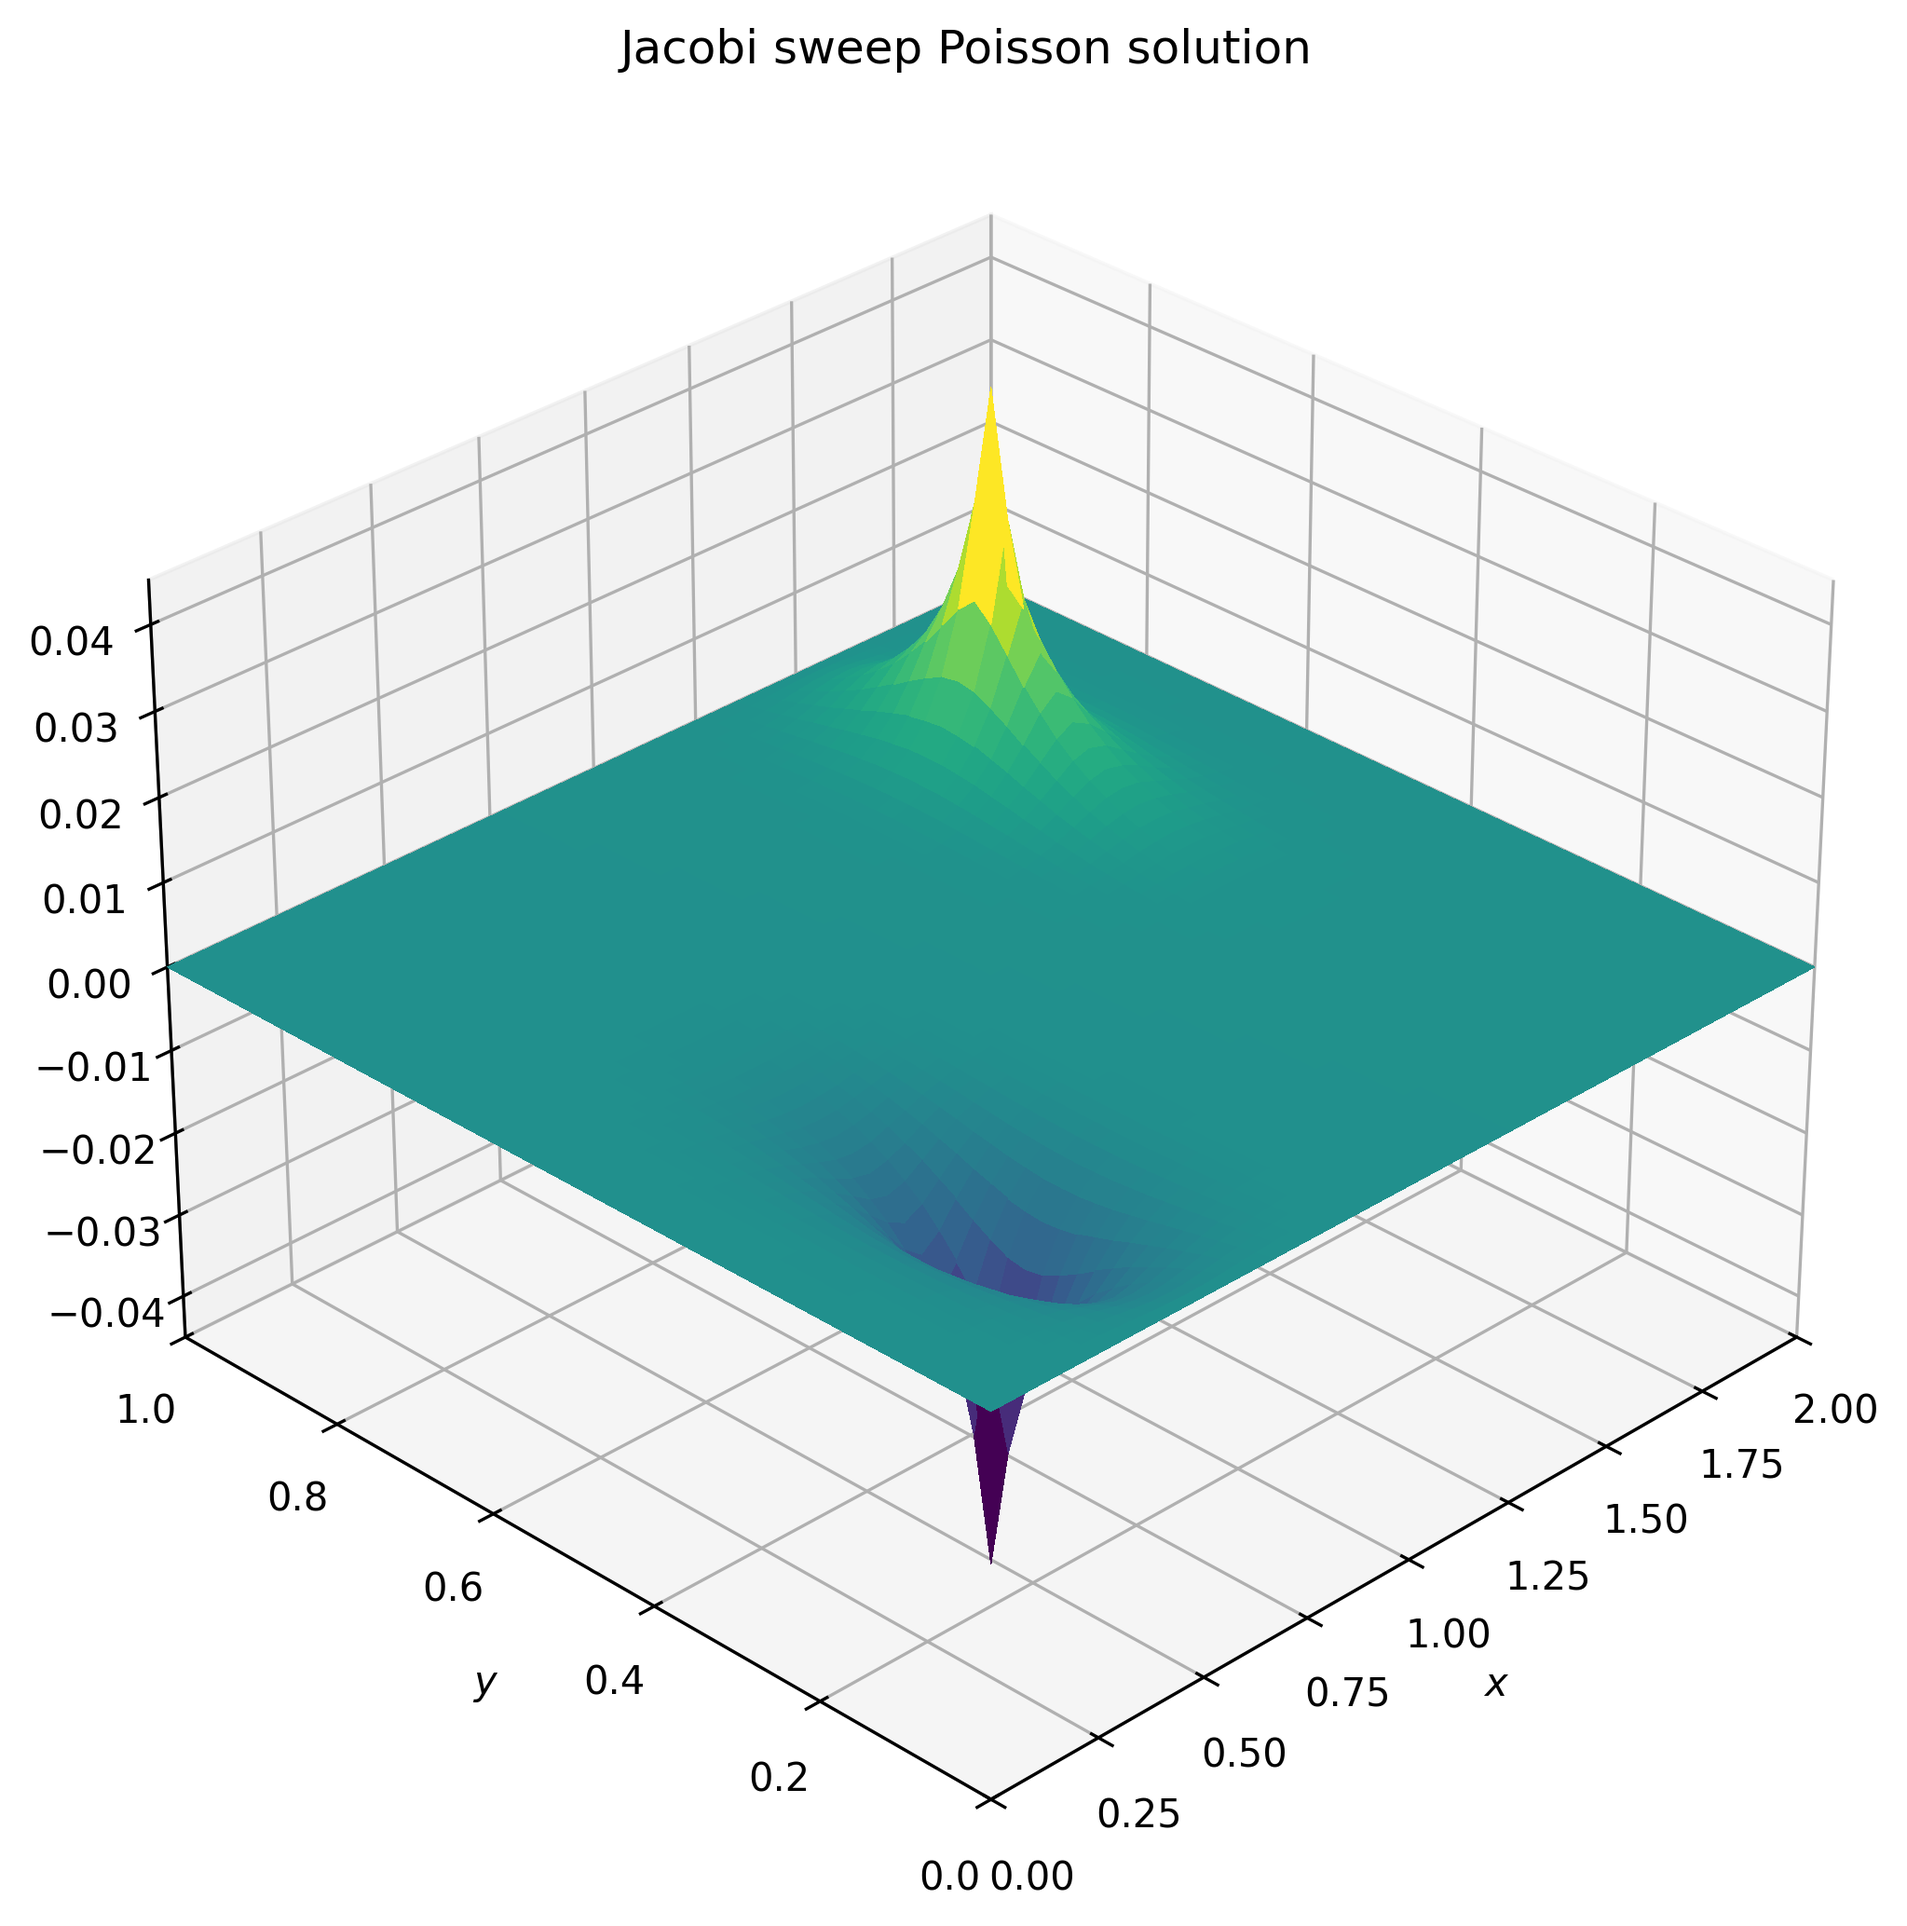
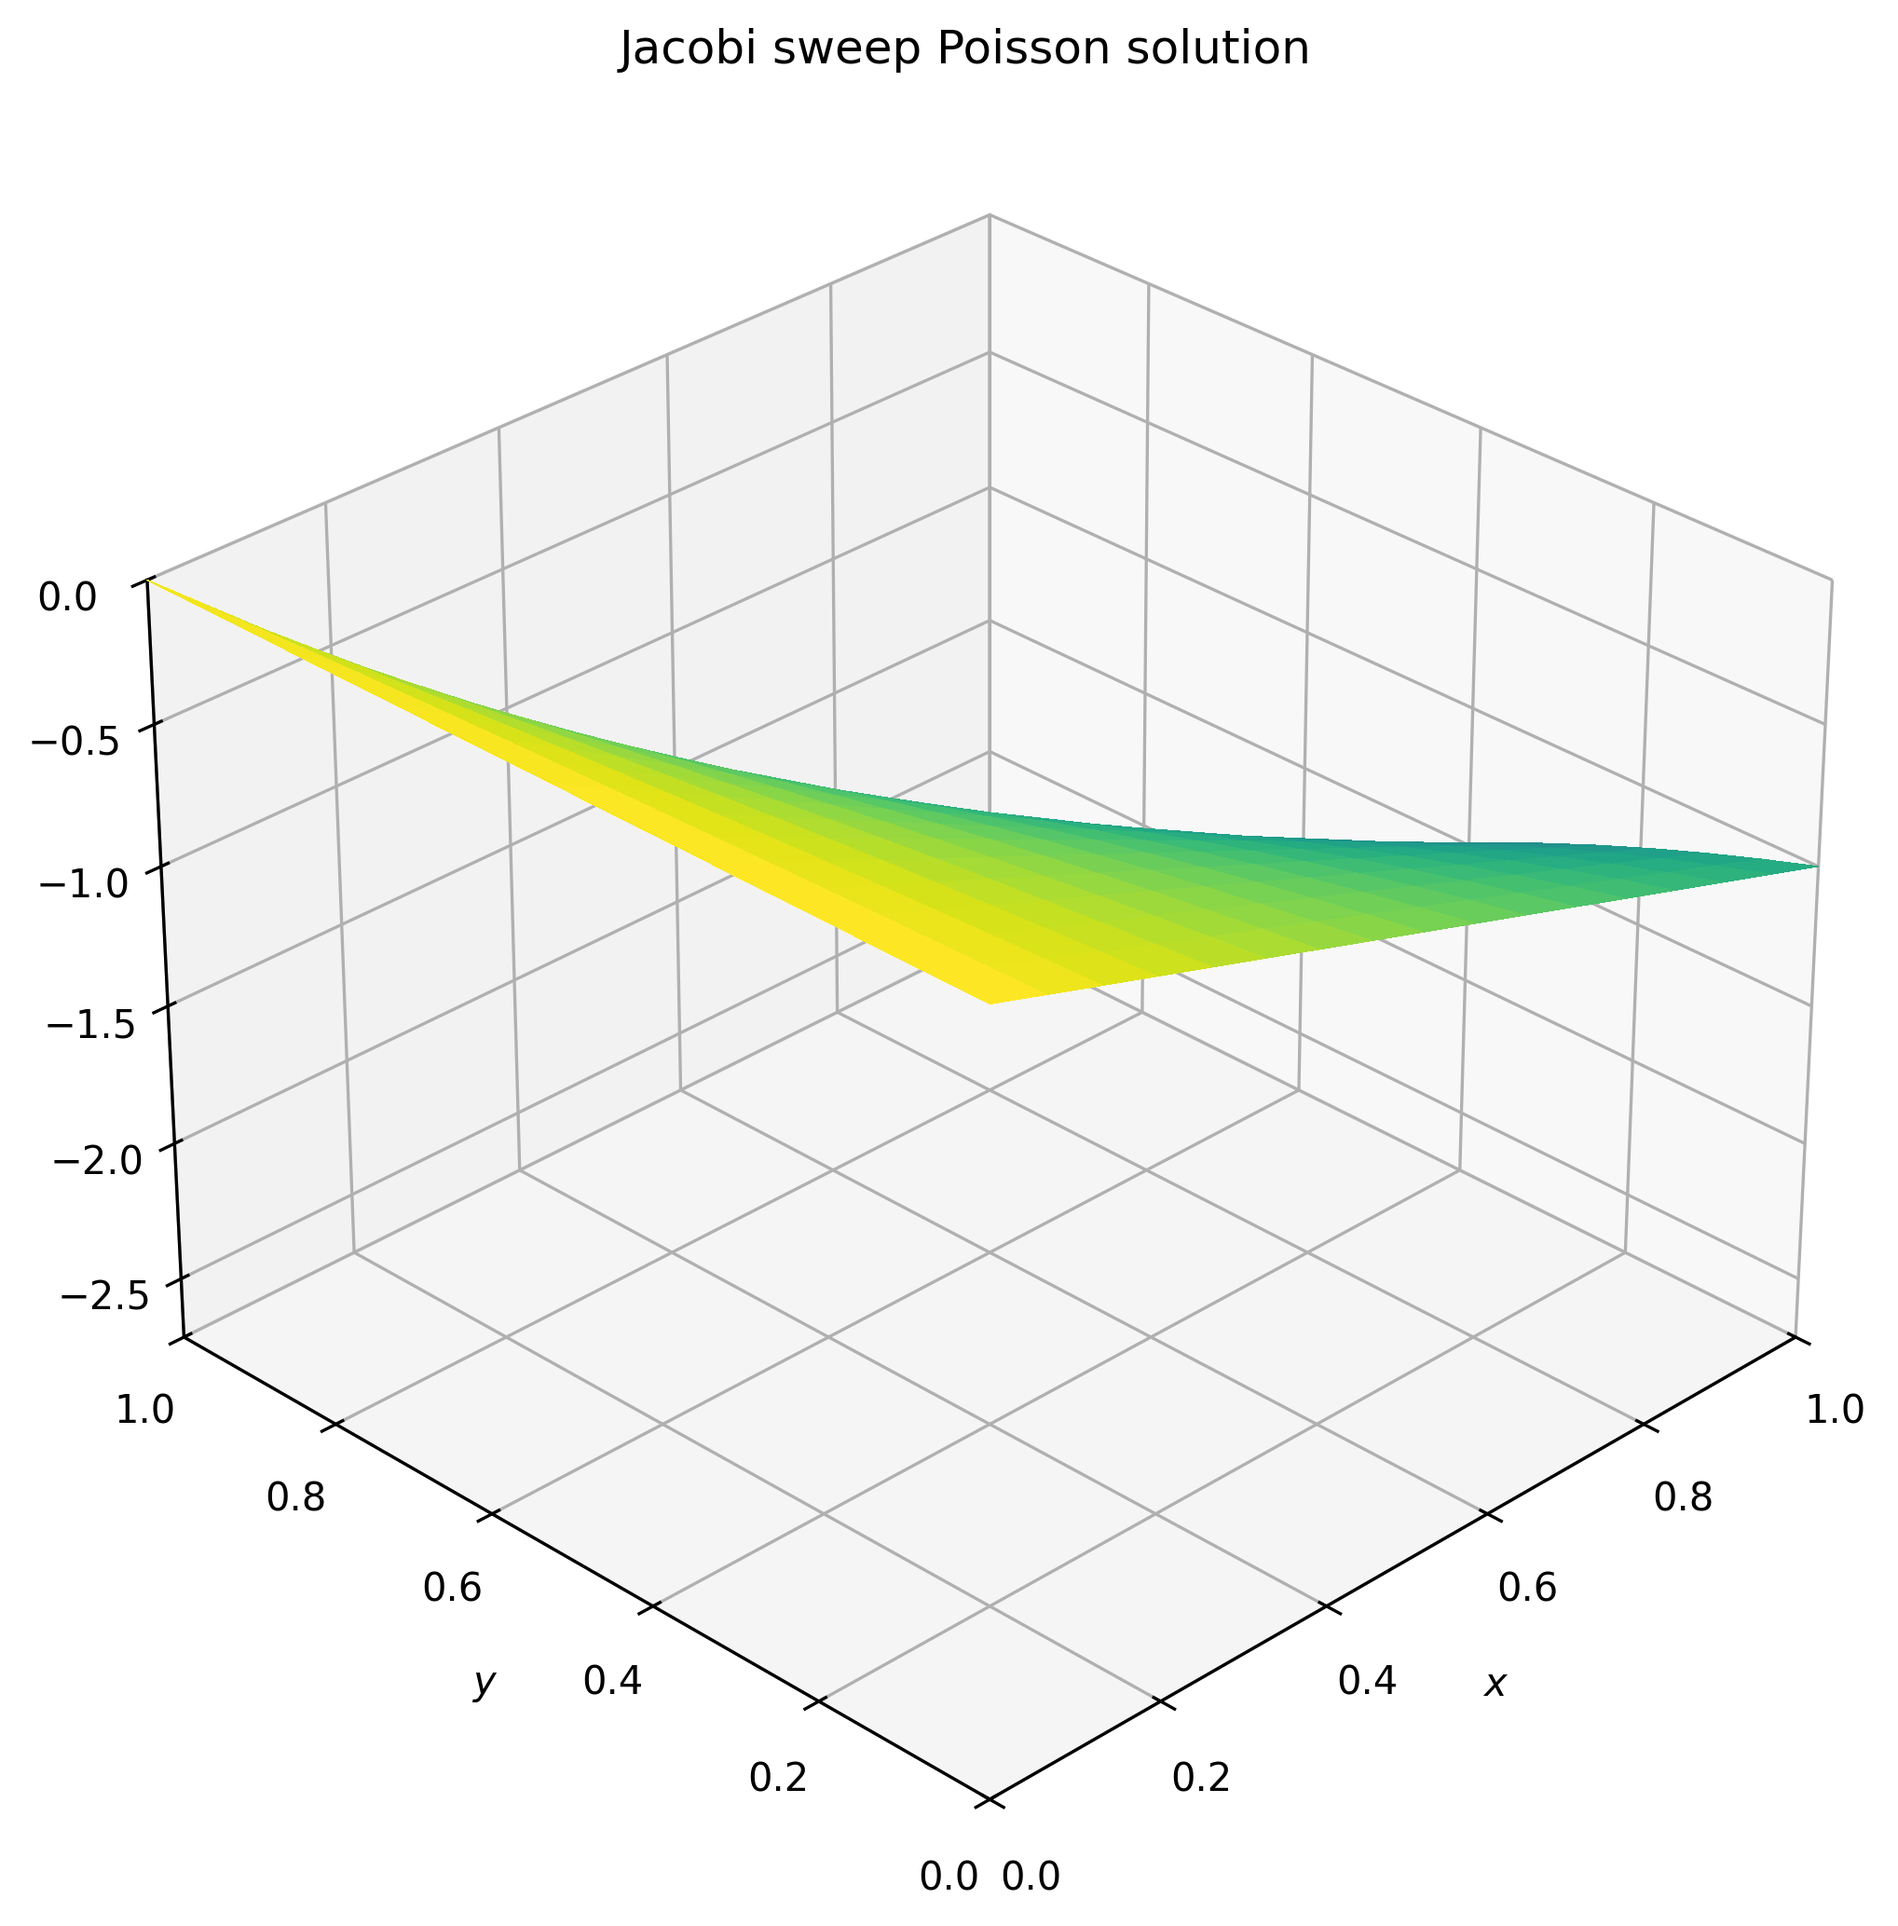
edit pure devito poisson example, add matfree snes petsc and edit explicit petsc poisson

diff --git a/Chapter2/solving_poisson_with_snes/snes_poisson_2d_explicit.c b/Chapter2/solving_poisson_with_snes/snes_poisson_2d_explicit.c
@@ -1,5 +1,5 @@
 static char help[] = "Example adapted from Ed Bueler - petsc4pdes.\n"
-                     "Solves structured-grid Poisson problem in 2D - matrix free version.\n"
+                     "Solves structured-grid Poisson problem in 2D.\n"
                      "Equation is\n"
                      "    - p_xx - p_yy = b,\n"
                      "subject to Dirichlet boundary conditions.\n"
@@ -31,14 +31,13 @@ static PetscScalar b_rhs_2D(PetscScalar x, PetscScalar y, void *ctx)
   return x * PetscExpReal(y); // note  b = - (p_xx + p_yy) = - p
 }
 
-PetscErrorCode JacMult(Mat J, Vec X, Vec Y);
+PetscErrorCode FormJacobian(SNES snes, Vec p, Mat J, Mat Jpre, void *dummy);
 PetscErrorCode FormFunctionGlobal(SNES snes, Vec p, Vec F, void *dummy);
 PetscErrorCode FormExact(DMDALocalInfo *info, Vec p, PoissonCtx *user);
 PetscErrorCode InitialState(DM da, Vec p, PoissonCtx *user);
 
 int main(int argc, char **argv)
 {
-  Mat           J;
   DM            da;
   KSP           ksp;
   PC            pc;
@@ -60,7 +59,6 @@ int main(int argc, char **argv)
   PetscCall(DMSetFromOptions(da));
   PetscCall(DMSetUp(da));
   PetscCall(DMDASetUniformCoordinates(da, 0.0, user.Lx, 0.0, user.Ly, 0.0, 1.0));
-  PetscCall(DMSetMatType(da, MATSHELL));
   PetscCall(SNESCreate(PETSC_COMM_WORLD, &snes));
   PetscCall(SNESSetType(snes, SNESKSPONLY));
   PetscCall(SNESGetKSP(snes, &ksp));
@@ -69,13 +67,10 @@ int main(int argc, char **argv)
   PetscCall(KSPGetPC(ksp, &pc));
   PetscCall(PCSetType(pc, PCNONE));
   PetscCall(SNESSetDM(snes, da));
-  PetscCall(DMCreateMatrix(da, &J));
-  PetscCall(SNESSetJacobian(snes, J, J, MatMFFDComputeJacobian, NULL));
-  // Set the matrix-free matmult action for J
-  PetscCall(MatShellSetOperation(J, MATOP_MULT, (void (*)(void))JacMult));
   PetscCall(SNESSetFunction(snes, NULL, FormFunctionGlobal, (void *)(da)));
+  // Assemble the Jacobian explicitly (AIJ matrix created from the DMDA)
+  PetscCall(SNESSetJacobian(snes, NULL, NULL, FormJacobian, (void *)(da)));
   PetscCall(SNESSetFromOptions(snes));
-  PetscCall(MatSetDM(J, da));
   PetscCall(DMSetApplicationContext(da, &user));
   PetscCall(DMCreateGlobalVector(da, &pglobal));
   PetscCall(InitialState(da, pglobal, &user)); // zero interior, p = g on boundary
@@ -98,7 +93,6 @@ int main(int argc, char **argv)
                         "  error |p-pexact|_inf = %.3e, |p-pexact|_h = %.3e\n",
                         gridstr, errinf, err2h));
   PetscCall(VecDestroy(&pglobal));
-  PetscCall(MatDestroy(&J));
   PetscCall(SNESDestroy(&snes));
   PetscCall(DMDestroy(&da));
   PetscCall(PetscFinalize());
@@ -162,57 +156,66 @@ PetscErrorCode FormFunctionGlobal(SNES snes, Vec p, Vec F, void *dummy)
   PetscFunctionReturn(PETSC_SUCCESS);
 }
 
-PetscErrorCode JacMult(Mat J, Vec X, Vec Y)
+PetscErrorCode FormJacobian(SNES snes, Vec p, Mat J, Mat Jpre, void *dummy)
 {
-  DM            dm;
+  DM            dm = (DM)(dummy);
   DMDALocalInfo info;
-  Vec           xloc, yloc;
-  PetscScalar   xymin[2], xymax[2], hx, hy, scdiag;
-  PetscInt      i, j, xs, ys, xm, ym;
-  PetscScalar   pe, pw, pn, ps;
-  PetscScalar **x_p;
-  PetscScalar **y_p;
+  Vec           p_local;
+  PetscScalar **ap;
+  PetscReal     xymin[2], xymax[2], hx, hy, scdiag, v[5];
+  PetscInt      i, j, ncols;
+  MatStencil    col[5], row;
+
   PetscFunctionBeginUser;
-  PetscCall(VecSet(Y, 0.0));
-  PetscCall(MatGetDM(J, &dm));
   PetscCall(DMDAGetLocalInfo(dm, &info));
 
-  PetscCall(DMGetLocalVector(dm, &xloc));
-  PetscCall(DMGetLocalVector(dm, &yloc));
-  PetscCall(DMGlobalToLocalBegin(dm, X, INSERT_VALUES, xloc));
-  PetscCall(DMGlobalToLocalEnd(dm, X, INSERT_VALUES, xloc));
-  PetscCall(VecSet(yloc, 0.0));
-  PetscCall(DMDAVecGetArray(dm, yloc, &y_p));
-  PetscCall(DMDAVecGetArray(dm, xloc, &x_p));
+  PetscCall(DMGetLocalVector(dm, &p_local));
+  PetscCall(DMGlobalToLocalBegin(dm, p, INSERT_VALUES, p_local));
+  PetscCall(DMGlobalToLocalEnd(dm, p, INSERT_VALUES, p_local));
+  PetscCall(DMDAVecGetArray(dm, p_local, &ap));
+
   PetscCall(DMGetBoundingBox(dm, xymin, xymax));
   hx     = (xymax[0] - xymin[0]) / (info.mx - 1);
   hy     = (xymax[1] - xymin[1]) / (info.my - 1);
   scdiag = 2.0 * (hy / hx + hx / hy); // diagonal scaling
 
-  DMDAGetCorners(dm, &xs, &ys, NULL, &xm, &ym, NULL);
-
   for (j = info.ys; j < info.ys + info.ym; j++) {
+    row.j    = j;
+    col[0].j = j;
     for (i = info.xs; i < info.xs + info.xm; i++) {
+      row.i    = i;
+      col[0].i = i;
+      ncols    = 1;
       if (i == 0 || i == info.mx - 1 || j == 0 || j == info.my - 1) {
-        y_p[j][i] = scdiag * x_p[j][i];
+        v[0] = scdiag; // boundary rows: F = scdiag * (p - g)
       } else {
-        pe        = (i + 1 == info.mx - 1) ? 0.0 : x_p[j][i + 1];
-        pw        = (i - 1 == 0) ? 0.0 : x_p[j][i - 1];
-        pn        = (j + 1 == info.my - 1) ? 0.0 : x_p[j + 1][i];
-        ps        = (j - 1 == 0) ? 0.0 : x_p[j - 1][i];
-        y_p[j][i] = scdiag * x_p[j][i] - (hy / hx) * (pw + pe) - (hx / hy) * (ps + pn);
+        v[0] = scdiag;
+        if (i - 1 > 0) {
+          col[ncols].j = j;     col[ncols].i = i - 1; v[ncols++] = -hy / hx;
+        }
+        if (i + 1 < info.mx - 1) {
+          col[ncols].j = j;     col[ncols].i = i + 1; v[ncols++] = -hy / hx;
+        }
+        if (j - 1 > 0) {
+          col[ncols].j = j - 1; col[ncols].i = i;     v[ncols++] = -hx / hy;
+        }
+        if (j + 1 < info.my - 1) {
+          col[ncols].j = j + 1; col[ncols].i = i;     v[ncols++] = -hx / hy;
+        }
       }
+      PetscCall(MatSetValuesStencil(Jpre, 1, &row, ncols, col, v, INSERT_VALUES));
     }
   }
 
-  PetscCall(DMDAVecRestoreArray(dm, yloc, &y_p));
-  PetscCall(DMDAVecRestoreArray(dm, xloc, &x_p));
+  PetscCall(MatAssemblyBegin(Jpre, MAT_FINAL_ASSEMBLY));
+  PetscCall(MatAssemblyEnd(Jpre, MAT_FINAL_ASSEMBLY));
+  if (J != Jpre) {
+    PetscCall(MatAssemblyBegin(J, MAT_FINAL_ASSEMBLY));
+    PetscCall(MatAssemblyEnd(J, MAT_FINAL_ASSEMBLY));
+  }
 
-  PetscCall(DMLocalToGlobalBegin(dm, yloc, ADD_VALUES, Y));
-  PetscCall(DMLocalToGlobalEnd(dm, yloc, ADD_VALUES, Y));
-
-  PetscCall(DMRestoreLocalVector(dm, &xloc));
-  PetscCall(DMRestoreLocalVector(dm, &yloc));
+  PetscCall(DMDAVecRestoreArray(dm, p_local, &ap));
+  PetscCall(DMRestoreLocalVector(dm, &p_local));
   PetscFunctionReturn(PETSC_SUCCESS);
 }
 

diff --git a/Chapter2/prior_poisson.py b/Chapter2/prior_poisson.py
@@ -1,52 +1,70 @@
 """
 Steady-state Poisson equation, adapted from Devito's tutorial notebook
 (devito/examples/cfd/06_poisson.ipynb, "Example 6: Poisson equation").
+
+Solves the same problem as solving_poisson_with_snes/snes_poisson_2d.c
+(ref - https://github.com/bueler/p4pdes/blob/master/c/ch6/fish.c):
+    -p_xx - p_yy = b(x,y) = x e^y on the unit square,
+    Dirichlet BCs from the exact solution p(x,y) = -x e^y:
+    p(0,y) = 0, p(1,y) = -e^y, p(x,0) = -x, p(x,1) = -x e.
 """
 import numpy as np
 
-from devito import Grid, Function, TimeFunction, Eq, Operator, solve, configuration
+from devito import (Grid, Function, TimeFunction, Eq, Operator, solve,
+                    configuration, Border)
 from matplotlib import pyplot as plt
 from mpl_toolkits.mplot3d import Axes3D
 from matplotlib import cm
 
 configuration['log-level'] = 'ERROR'
 
-nx, ny = 50, 50
-nt = 100
-Lx, Ly = 2.0, 1.0
 
-grid = Grid(shape=(nx, ny), extent=(Lx, Ly))
+nx, ny = 17, 17
+nt = 2000
+Lx, Ly = 1.0, 1.0
+
+grid = Grid(shape=(nx, ny), extent=(Lx, Ly), dtype=np.float64)
+
+# Boundary layer of thickness 1 on all sides, to implement BCs
+border = Border(grid, 1)
+
+x_coord = np.linspace(0, Lx, nx)
+y_coord = np.linspace(0, Ly, ny)
+X, Y = np.meshgrid(x_coord, y_coord, indexing='ij')
 
 b = Function(name='b', grid=grid)
-b.data[:] = 0.
-b.data[int(nx / 4), int(ny / 4)] = -100
-b.data[int(3 * nx / 4), int(3 * ny / 4)] = 100
+b.data[:] = X * np.exp(Y)
 
+p_exact = -X * np.exp(Y)
+
+# Only the boundary values are used, via the Border BC
+bc = Function(name='bc', grid=grid)
+bc.data[:] = p_exact
 
 p = TimeFunction(name='p', grid=grid, space_order=2)
 p.data[:] = 0.
 
-# Create Laplace equation base on `p`
+# Create Poisson equation based on `p`
 eq = Eq(-p.laplace, b)
 # Solve for the central stencil point
 stencil = solve(eq, p)
 # Let stencil populate the buffer `p.forward`, restricted to grid.interior
 eq_stencil = Eq(p.forward, stencil, subdomain=grid.interior)
 
-# p is initialised to 0 everywhere and grid.interior never updates the
-# boundary layer, so it stays fixed at 0 - already satisfying the
-# homogeneous Dirichlet BC, with no separate BC equations needed.
-op = Operator([eq_stencil])
+# Dirichlet BCs, set on the boundary
+bc_stencil = Eq(p.forward, bc, subdomain=border)
+
+op = Operator([eq_stencil, bc_stencil])
 op(time=nt)
 
 buffer_size = p.time_order + 1
-final_idx = nt % buffer_size
+final_idx = (nt + 1) % buffer_size  # op(time=nt) runs nt + 1 sweeps
 p_final = p.data[final_idx]
 
-
-x_coord = np.linspace(0, Lx, nx)
-y_coord = np.linspace(0, Ly, ny)
-X, Y = np.meshgrid(x_coord, y_coord, indexing='ij')
+errinf = np.abs(p_final - p_exact).max()
+err2h = np.linalg.norm(p_final - p_exact) / np.sqrt((nx - 1) * (ny - 1))
+print(f"problem on {nx} x {ny} point 2D grid:\n"
+      f"  error |p-pexact|_inf = {errinf:.3e}, |p-pexact|_h = {err2h:.3e}")
 
 fig = plt.figure(figsize=(11, 7), dpi=100)
 ax = fig.add_subplot(111, projection='3d')
